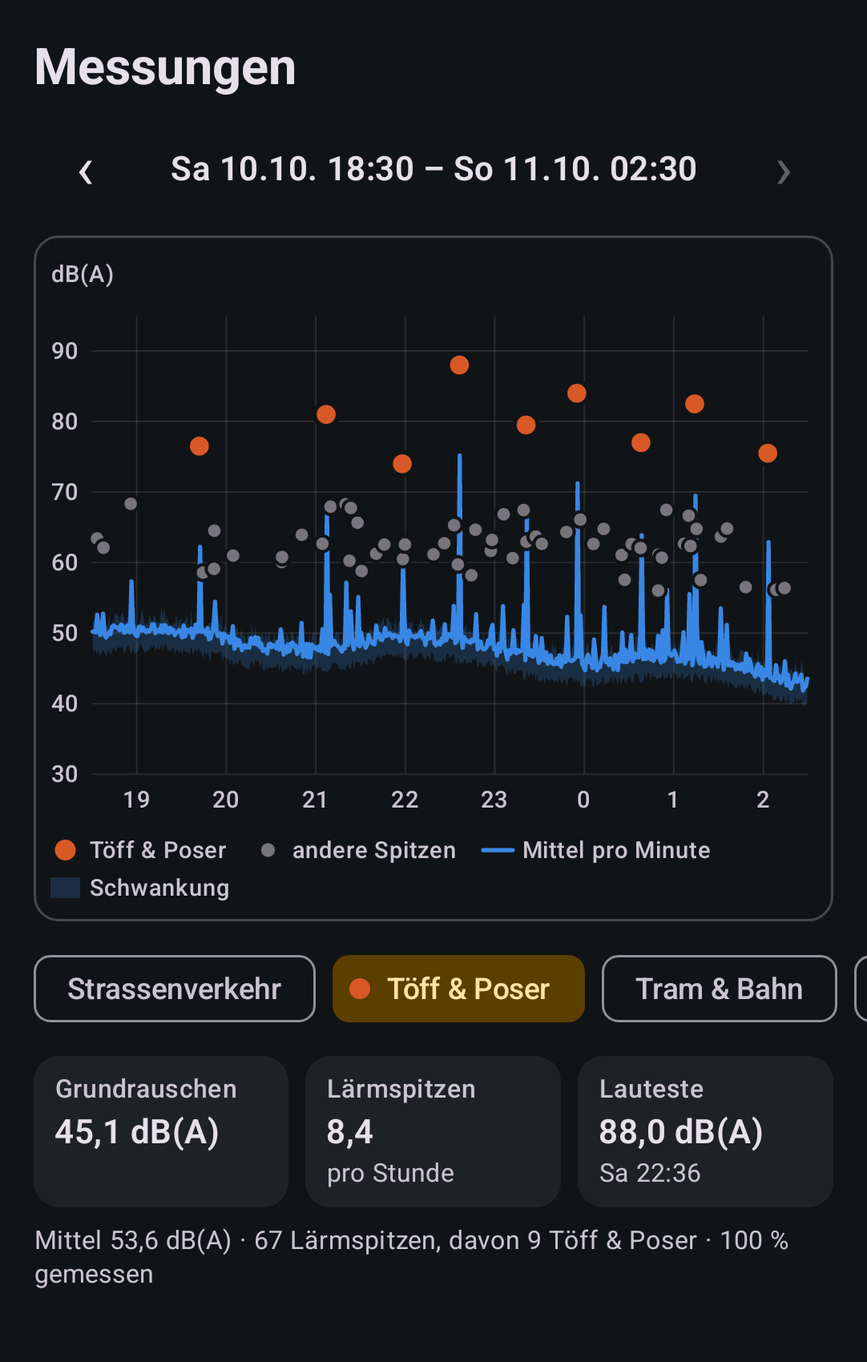
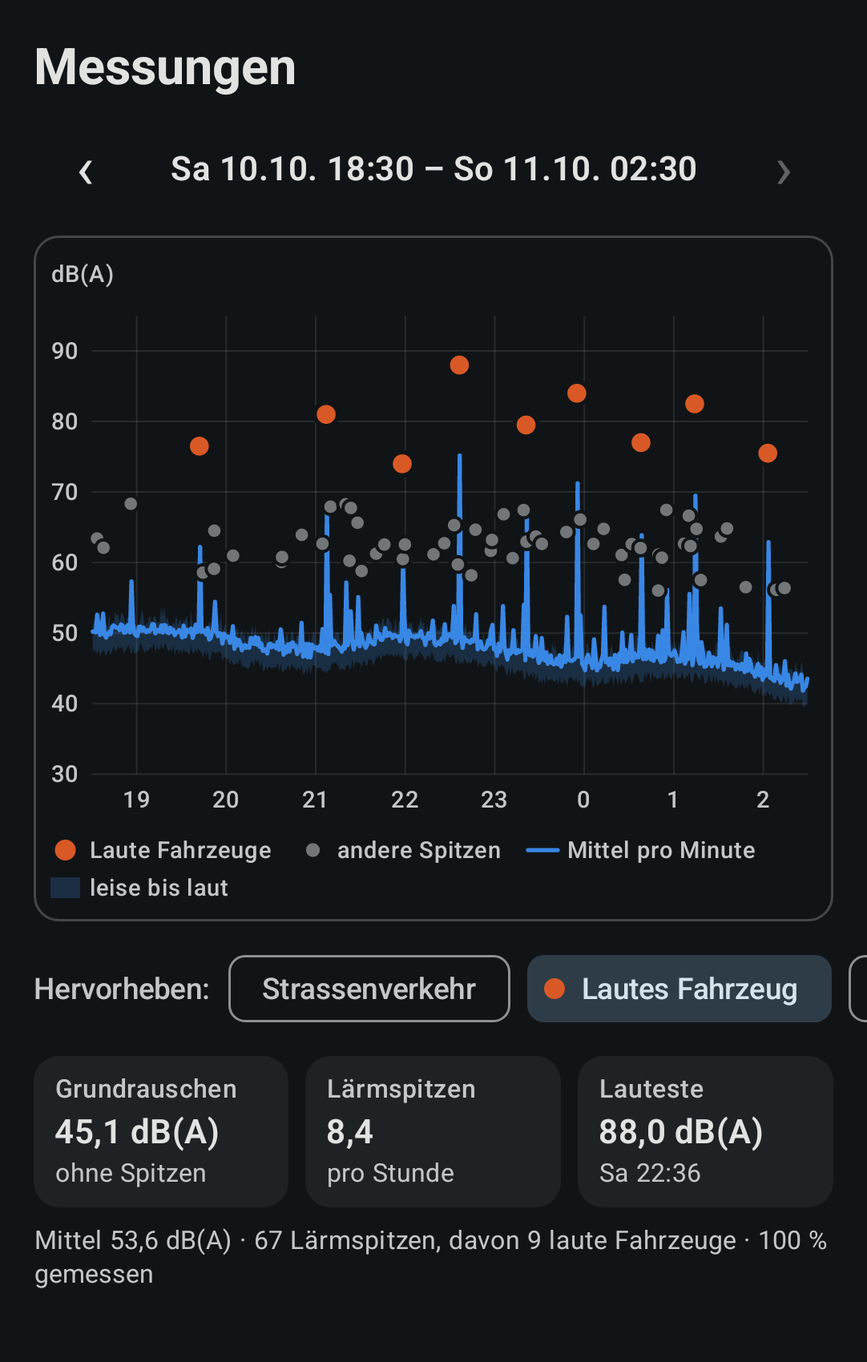
0.9.3/44: «Lautes Fahrzeug» instead of «Töff & Poser» for the detector class loud_vehicle (app, map, docs)
Claude-Session: https://claude.ai/code/session_01YHR9yrfAHvhA5Q9wZJdGEE

diff --git a/docs/datenschutz.html b/docs/datenschutz.html
@@ -59,7 +59,7 @@
       <br id="foto"><strong>Foto vom Fahrzeug (freiwillig, ab 0.9.0):</strong> Der Knopf öffnet die Kamera-App des Telefons; das Foto macht diese, die App selbst hat keine Kamera-Berechtigung. Die App verkleinert das Foto, lässt dabei alle Zusatzangaben wie Aufnahmeort und Gerät (EXIF) weg, löscht das Original und bewahrt das Foto <strong>nur in ihrem privaten Speicher auf dem Telefon</strong> auf, den keine andere App lesen kann (auch nicht in einer Sicherung in die Cloud). Es wird <strong>nie gesendet</strong>, auch nicht an den Server des Projekts, und nur Ihnen in der Liste «Meldungen» gezeigt. Gelöscht wird es mit seiner Meldung – mit «Abbrechen», wenn das Teilen ausgeschaltet oder «Vom Server löschen» getippt wird, bevor die Meldung gesendet ist, wenn der Server die Meldung nicht annimmt, oder wenn sie aus der Liste der letzten 500 gesendeten Meldungen fällt –, einzeln mit «Foto löschen» (bis 0.9.1 «Löschen») in der grossen Ansicht, oder wenn Sie die App deinstallieren oder ihre Daten löschen. Ob die Kamera-App zusätzlich selbst etwas speichert, bestimmt die Kamera-App; die App hat darauf keinen Einfluss. Bedenken Sie: Ein Foto, auf dem ein Kontrollschild zu lesen ist, enthält Personendaten der Person, die das Fahrzeug fährt oder der es gehört (und es kann weitere Personen zeigen); die App behält es deshalb nur für Sie auf dem Telefon und gibt es nicht weiter.
       <br>Sobald der Server eine Meldung erhalten hat, löscht das Telefon ihre Koordinaten; es behält nur Art, Zeit, den ungefähren Ort, die Lautstärke und gegebenenfalls das Foto. In 0.8.0 konnten Sie ein Kontrollschild in ein freiwilliges Feld tippen; ab 0.9.0 gibt es dieses Feld nicht mehr, und schon getippte Kontrollschilder bleiben, wie bisher, nur auf dem Telefon in der Liste «Meldungen» und werden nie gesendet.
       <br><strong>Unterwegs misst die Online-Version ab 0.9.0 nicht mehr:</strong> Es gibt keine Messung «Unterwegs» und keine Mitteilung «Sehr laut» mehr. Eine Messung ist immer die lange Messung am Fenster; unterwegs melden Sie nur, mit «Laut! Melden». (Bis 0.8.0 wurde eine mit «Unterwegs» gestartete Messung nie geteilt, und die Mitteilung bei sehr lautem Verkehr blieb auf dem Telefon.) Während einer Messung liest die App (ab 0.7.0) den Bewegungssensor, nur auf dem Telefon, um zu erkennen, dass das Telefon getragen wird; davon verlässt nichts das Telefon, und solange es getragen wird, wird von der Messung nichts geteilt.</li>
-    <li><strong>Gesendet werden</strong> nur die Pegel pro Minute und die lauten Ereignisse geteilter Messungen, jeweils mit dem verschobenen Punkt ihrer Messung und dem eingestellten Wert der Verschiebung, dazu Telefonmodell, Audioquelle (bei den Minutenwerten ab Version 0.7.2 mit der Art des Mikrofons – USB, Bluetooth, Kabel –, falls Sie nicht mit dem eingebauten messen; nie dessen Name oder Adresse), Kalibrierung und Ihre freiwilligen Angaben zur Aufstellung (Platzierung, Stockwerk, Strassenseite, Notiz) mit dem verschobenen Punkt der neuesten geteilten Messung, und Ihre Meldungen (wie oben beschrieben, ab 0.9.0 mit der Lautstärke, nie mit einem Foto). Ab Version 0.6.4 sendet die App nur laute Ereignisse von Maschinen- und Motorenlärm – Töff &amp; Poser, Strassenverkehr, Tram &amp; Bahn, Flugzeug, Baustelle – und nur solche, die auch die Prüfungen des Servers bestehen (mindestens 0,5&nbsp;Sekunden lang, mindestens 30&nbsp;dB(A) und die in der App eingestellte Mindestlautstärke, eingestellter Abstand zum Grundrauschen mindestens 6,5&nbsp;dB); Stimmen, Musik, Sonstiges und Wind verlassen das Telefon nie. Ältere Versionen senden laute Ereignisse jeder erkannten Art (ausser Wind); der Server behält aber nur Maschinen- und Motorenlärm und verwirft Ereignisse anderer Art schon beim Eintreffen, ohne sie zu speichern. Beim ersten Einschalten kommen die geteilten Messungen der letzten 7 Tage mit; schalten Sie das Teilen während einer Messung ein, wird diese ganze Messung geteilt; andere Messungen ohne Teilen werden nie gesendet.</li>
+    <li><strong>Gesendet werden</strong> nur die Pegel pro Minute und die lauten Ereignisse geteilter Messungen, jeweils mit dem verschobenen Punkt ihrer Messung und dem eingestellten Wert der Verschiebung, dazu Telefonmodell, Audioquelle (bei den Minutenwerten ab Version 0.7.2 mit der Art des Mikrofons – USB, Bluetooth, Kabel –, falls Sie nicht mit dem eingebauten messen; nie dessen Name oder Adresse), Kalibrierung und Ihre freiwilligen Angaben zur Aufstellung (Platzierung, Stockwerk, Strassenseite, Notiz) mit dem verschobenen Punkt der neuesten geteilten Messung, und Ihre Meldungen (wie oben beschrieben, ab 0.9.0 mit der Lautstärke, nie mit einem Foto). Ab Version 0.6.4 sendet die App nur laute Ereignisse von Maschinen- und Motorenlärm – laute Fahrzeuge, Strassenverkehr, Tram &amp; Bahn, Flugzeug, Baustelle – und nur solche, die auch die Prüfungen des Servers bestehen (mindestens 0,5&nbsp;Sekunden lang, mindestens 30&nbsp;dB(A) und die in der App eingestellte Mindestlautstärke, eingestellter Abstand zum Grundrauschen mindestens 6,5&nbsp;dB); Stimmen, Musik, Sonstiges und Wind verlassen das Telefon nie. Ältere Versionen senden laute Ereignisse jeder erkannten Art (ausser Wind); der Server behält aber nur Maschinen- und Motorenlärm und verwirft Ereignisse anderer Art schon beim Eintreffen, ohne sie zu speichern. Beim ersten Einschalten kommen die geteilten Messungen der letzten 7 Tage mit; schalten Sie das Teilen während einer Messung ein, wird diese ganze Messung geteilt; andere Messungen ohne Teilen werden nie gesendet.</li>
     <li><strong>Nie gesendet</strong> werden Audio, Fotos, Kontrollschilder, die Rohbezeichnungen des Klassifikators, der genaue Standort beim Start einer Messung, die Verschiebung selbst und der geheime Schlüssel, aus dem die App sie berechnet, Name, Konto, Telefonnummer oder Werbe-Kennung.</li>
     <li><strong>Wohin und wann:</strong> nur an den Server des Projekts in der Schweiz, api.lessnoise.ch (Stadtlärm bis 0.5.1: api.stadtlaerm.ch, derselbe Server), verschlüsselt (HTTPS); während einer geteilten Messung jede Lärmspitze etwa 30 Sekunden nach ihrem Ende und die Minutenwerte alle 2 Minuten, gleich nach dem Stopp einer Messung, nach einer Meldung und sonst nach jeder vollen Stunde; über WLAN oder mobile Daten (höchstens etwa 3&nbsp;MB pro Tag bei Messung rund um die Uhr, meist viel weniger), nur über WLAN, wenn Sie unter «Teilen» › «Messungen am Fenster» «Nur über WLAN» einschalten (bis 0.8.0 unter «Weitere Angaben») (bis Version 0.6.2 war das die Grundeinstellung).</li>
     <li><strong>Kennung:</strong> Das Gerät erhält eine zufällige Kennung ohne Bezug zu Ihrer Person; sie erscheint nie auf der Karte. «Neu starten» löscht die Daten auf dem Server und beginnt mit einer neuen Kennung.</li>
@@ -84,7 +84,7 @@
   <h2>Lärmkarte: was der Server speichert und zeigt</h2>
   <ul class="features">
     <li><strong>Messwerte</strong> speichert der Server mit dem verschobenen Punkt, den die App gesendet hat (von älteren Versionen – «Weniger Lärm» bis 0.6.1, «Stadtlärm» 0.5.x – mit der Hektare), nie mit dem genauen Standort. Die Karte fasst sie in Feldern von 100&nbsp;×&nbsp;100&nbsp;m zusammen, jeweils im Feld, in dem der verschobene Punkt liegt, pro Kalendertag (alle Stunden), gemittelt über 7 oder 30 Tage, mit einem Tagesverlauf pro Stunde über 30 Tage – ohne Gerätekennung; den Punkt selbst und den Wert der Verschiebung veröffentlicht sie nie. Die Verschiebung verbirgt die genaue Adresse, nicht die Gegend: Wer den eingestellten Wert kennt, weiss, dass der echte Ort meist (etwa 86 von 100 Mal) näher als das Doppelte davon beim verschobenen Punkt liegt, bei 50&nbsp;m also meist innerhalb von 100&nbsp;m. Ein Feld wird auch gezeigt, wenn nur ein Telefon dort misst; es liegt dann nahe bei Ihnen, und wer weiss, dass Sie in einer Gegend allein messen, kann Ihre Felder Tag für Tag verfolgen. Wer an mehreren Orten misst, erscheint in mehreren Feldern, ohne Verbindung zwischen ihnen. Telefonmodelle erscheinen nur als Anzahl über das ganze Netz.</li>
-    <li><strong>Nur Maschinen- und Motorenlärm:</strong> Die Karte zählt nur die lauten Ereignisse von Töff &amp; Poser, Strassenverkehr, Tram &amp; Bahn, Flugzeugen und Baustellen. Ereignisse anderer Art – Stimmen, Musik, Sonstiges – verwirft der Server beim Eintreffen und speichert sie nicht; solche, die er vorher gespeichert hatte, hat er am 16.&nbsp;Oktober 2026 gelöscht. Minuten, die mindestens zur Hälfte aus Stimmen oder Musik bestehen, zählen als Messzeit, aber nicht für die Pegel.</li>
+    <li><strong>Nur Maschinen- und Motorenlärm:</strong> Die Karte zählt nur die lauten Ereignisse dieser Quellen: laute Fahrzeuge, Strassenverkehr, Tram &amp; Bahn, Flugzeugen und Baustellen. Ereignisse anderer Art – Stimmen, Musik, Sonstiges – verwirft der Server beim Eintreffen und speichert sie nicht; solche, die er vorher gespeichert hatte, hat er am 16.&nbsp;Oktober 2026 gelöscht. Minuten, die mindestens zur Hälfte aus Stimmen oder Musik bestehen, zählen als Messzeit, aber nicht für die Pegel.</li>
     <li><strong>Meldungen</strong> speichert der Server mit dem genauen Ort (oder dem Ort, den Sie unter den Punkt geschoben haben), der Zeit, der Genauigkeit, der Art des Lärms (Fahrzeug oder Flugzeug), der Fahrtrichtung, falls angegeben, und ab 0.9.0 der Lautstärke (Spitze und Mittelwert, Anzahl Sekunden, kalibriert oder nicht). Die Karte zeigt jede Meldung der letzten 30 Tage als Punkt genau an der gemeldeten Stelle, weil Sie diese Stelle ausdrücklich gemeldet haben – mit der Art des Fahrzeugs, der Fahrtrichtung, falls angegeben, der Spitze in ganzen dB, falls gemessen, und der auf die volle Stunde abgerundeten Zeit, ohne Gerätekennung, genaue Uhrzeit, Genauigkeit, Mittelwert oder Kalibrierung. Fotos und Kontrollschilder erhält der Server nie. Wer oft vom selben Ort aus meldet, etwa vom eigenen Balkon, macht diesen Ort als Häufung von Punkten sichtbar.</li>
     <li><strong>Laufend aktualisiert:</strong> Die Zahlen des heutigen Tages und der Tagesverlauf auf der Karte werden etwa alle 30 Sekunden neu berechnet. Wer ein Feld beobachtet, in dem nur ein Telefon misst, kann deshalb auf etwa eine Minute genau erkennen, wann dort eine Lärmspitze gemessen wurde. Eine Liste der Lärmspitzen, eine Gerätekennung oder die genaue Uhrzeit veröffentlicht die Karte weiterhin nie.</li>
     <li><strong>Aufbewahrung:</strong> Gelöschte Daten verschwinden beim nächsten Neuaufbau auch von der Karte, in der Regel innert einer Minute. Minutenwerte und Ereignisse werden nach zwei Jahren zu Stundenwerten zusammengefasst, Meldungen spätestens nach zwei Jahren gelöscht.</li>

diff --git a/docs/karte.html b/docs/karte.html
@@ -14,15 +14,15 @@
 <link rel="stylesheet" href="map/karte.css?v=1d1a17d2">
 <script src="vendor/leaflet/leaflet.js?v=db49d009" defer></script>
 <script src="map/lv95.js?v=ca0eeb2b" defer></script>
-<script src="map/model.js?v=f87bfdf4" defer></script>
-<script src="map/karte.js?v=26fe8f1d" defer></script>
+<script src="map/model.js?v=55142286" defer></script>
+<script src="map/karte.js?v=23f769d7" defer></script>
 </head>
 <body class="karte-page">
 
 <header class="wrap wide page-head">
   <a class="home" href="./">Weniger Lärm</a>
   <h1>Lärmkarte</h1>
-  <p class="lead">Maschinen- und Motorenlärm in der Schweiz – Töff, Verkehr, Tram und Bahn, Flugzeuge, Baustellen –, gemessen von Anwohnerinnen und Anwohnern mit der App von Weniger Lärm – zu jeder Tageszeit, wann immer jemand misst. Die Karte fasst die Messungen in Feldern von 100&nbsp;×&nbsp;100&nbsp;m zusammen. Seit Version 0.6.2 verschiebt die App jeden Messort vorher zufällig, standardmässig um etwa 50&nbsp;m (in der App einstellbar); der genaue Messort verlässt das Telefon nie. (Ältere Versionen senden das Feld, in dem gemessen wurde.) Die Punkte sind Meldungen: Dort hat jemand eine laute Vorbeifahrt gemeldet.</p>
+  <p class="lead">Maschinen- und Motorenlärm in der Schweiz – laute Fahrzeuge, Verkehr, Tram und Bahn, Flugzeuge, Baustellen –, gemessen von Anwohnerinnen und Anwohnern mit der App von Weniger Lärm – zu jeder Tageszeit, wann immer jemand misst. Die Karte fasst die Messungen in Feldern von 100&nbsp;×&nbsp;100&nbsp;m zusammen. Seit Version 0.6.2 verschiebt die App jeden Messort vorher zufällig, standardmässig um etwa 50&nbsp;m (in der App einstellbar); der genaue Messort verlässt das Telefon nie. (Ältere Versionen senden das Feld, in dem gemessen wurde.) Die Punkte sind Meldungen: Dort hat jemand eine laute Vorbeifahrt gemeldet.</p>
   <p class="small" id="quellen">Diese Seite lädt die Kartenbilder von swisstopo und die Messwerte und Meldungen vom Server des Projekts (api.lessnoise.ch, übergangsweise api.stadtlaerm.ch), sonst nichts von anderen Servern.</p>
 </header>
 
@@ -42,7 +42,7 @@
     <legend>Quelle der Ereignisse</legend>
     <b class="chips-label" aria-hidden="true">Quelle:</b>
     <label><input type="radio" name="source" value="alle" checked><span>Alle</span></label>
-    <label data-cat="loud_vehicle"><input type="radio" name="source" value="loud_vehicle"><span>Töff &amp; Poser</span></label>
+    <label data-cat="loud_vehicle"><input type="radio" name="source" value="loud_vehicle"><span>Lautes Fahrzeug</span></label>
     <label data-cat="road_traffic"><input type="radio" name="source" value="road_traffic"><span>Strassenverkehr</span></label>
     <label data-cat="rail_tram"><input type="radio" name="source" value="rail_tram"><span>Tram &amp; Bahn</span></label>
     <label data-cat="aircraft"><input type="radio" name="source" value="aircraft"><span>Flugzeug</span></label>
@@ -110,11 +110,11 @@
     <dt>Dynamik</dt>
     <dd>Wie stark der Pegel innerhalb einer Minute schwankt: der Median über alle Minuten von L10&nbsp;−&nbsp;L90. Wenige dB bei gleichmässigem Verkehr, mehr bei einer ruhigen Strasse mit einzelnen lauten Fahrzeugen.</dd>
     <dt>Ereignisse/h</dt>
-    <dd>Laute Einzelereignisse pro Stunde Messzeit, nur Maschinen- und Motorenlärm: Töff &amp; Poser, Strassenverkehr, Tram &amp; Bahn, Flugzeug und Baustelle zusammen. Stimmen, Musik und andere Geräusche zählen nicht.</dd>
+    <dd>Laute Einzelereignisse pro Stunde Messzeit, nur Maschinen- und Motorenlärm: laute Fahrzeuge, Strassenverkehr, Tram &amp; Bahn, Flugzeug und Baustelle zusammen. Stimmen, Musik und andere Geräusche zählen nicht.</dd>
     <dt>Quelle</dt>
-    <dd>«Alle» zeigt die fünf Quellen zusammen. Wählen Sie eine Quelle, färbt die Karte die Felder nach deren Ereignissen pro Stunde, in der Farbe dieser Quelle: hell wenige, dunkel viele (im dunklen Modus umgekehrt). Töff &amp; Poser sind Motorräder und hochdrehende Motoren. Die Quelle erkennt die App auf dem Telefon, ohne Audio zu speichern.</dd>
+    <dd>«Alle» zeigt die fünf Quellen zusammen. Wählen Sie eine Quelle, färbt die Karte die Felder nach deren Ereignissen pro Stunde, in der Farbe dieser Quelle: hell wenige, dunkel viele (im dunklen Modus umgekehrt). «Lautes Fahrzeug» heisst: Motorräder und hochdrehende Motoren. Die Quelle erkennt die App auf dem Telefon, ohne Audio zu speichern.</dd>
     <dt>Sehr laut/h</dt>
-    <dd>Ereignisse mit einem Spitzenpegel ab <span class="loud-db">75</span>&nbsp;dB(A) pro Stunde Messzeit. Es zählen nur die fünf Quellen des Maschinen- und Motorenlärms: Töff &amp; Poser, Strassenverkehr, Tram &amp; Bahn, Flugzeug und Baustelle.</dd>
+    <dd>Ereignisse mit einem Spitzenpegel ab <span class="loud-db">75</span>&nbsp;dB(A) pro Stunde Messzeit. Es zählen nur die fünf Quellen des Maschinen- und Motorenlärms: laute Fahrzeuge, Strassenverkehr, Tram &amp; Bahn, Flugzeug und Baustelle.</dd>
     <dt>Meldungen</dt>
     <dd>Punkte, an denen jemand mit der App eine laute Vorbeifahrt gemeldet hat, mit der Art des Fahrzeugs; ein kleiner Pfeil am Punkt zeigt die Fahrtrichtung, falls sie gemeldet wurde, und ab App-Version 0.9.0 die Spitze der Lautstärke, die das Telefon beim Melden gemessen hat (in ganzen dB). Der Ort ist so genau, wie er gemeldet wurde; die Zeit ist auf die volle Stunde abgerundet. Wer gemeldet hat, steht nirgends.</dd>
     <dt>unkalibriert</dt>

diff --git a/tests/map.spec.js b/tests/map.spec.js
@@ -117,7 +117,7 @@ test("legend: neutral scale for the mean level, no LSV values in the legend", as
 test("metric selector recolours the cells and changes the legend", async ({ page }) => {
   const fill = () => page.locator(`#karte path.cell[data-cell="${CAL}"]`).first().getAttribute("fill");
   const before = await fill();
-  await expect(page.locator('#metric input[value="loud"]')).toHaveCount(0);   // now the source «Töff & Poser»
+  await expect(page.locator('#metric input[value="loud"]')).toHaveCount(0);   // now the source «Lautes Fahrzeug»
   await page.locator('#metric input[value="events"]').check({ force: true });
   await expect(page.locator("#legend-title")).toHaveText(
     "Laute Einzelereignisse pro Stunde Messzeit, Maschinen- und Motorenlärm (alle fünf Quellen) · Letzte 7 Tage");
@@ -126,7 +126,7 @@ test("metric selector recolours the cells and changes the legend", async ({ page
   await expect(page.locator("#legend-title")).toContainText("Ereignisse ab 75 dB(A) pro Stunde Messzeit, Maschinen- und Motorenlärm");
   // «Sehr laut/h» says which sources count
   await expect(page.locator("#legend-note")).toHaveText(
-    "Gezählt pro Stunde gültiger Messzeit: Ereignisse mit einem Spitzenpegel ab 75 dB(A), nur von Töff & Poser, Strassenverkehr, Tram & Bahn, Flugzeug und Baustelle.");
+    "Gezählt pro Stunde gültiger Messzeit: Ereignisse mit einem Spitzenpegel ab 75 dB(A), nur von lauten Fahrzeugen, Strassenverkehr, Tram & Bahn, Flugzeug und Baustelle.");
   // keyboard: arrow keys move between the radio buttons
   await page.locator('#metric input[value="peaks"]').focus();
   await page.keyboard.press("ArrowLeft");
@@ -135,7 +135,7 @@ test("metric selector recolours the cells and changes the legend", async ({ page
 
 // ---- one colour and one layer per source (the five map categories, server/DESIGN.md §6, §7) ----
 
-const SOURCE_NAMES = ["Alle", "Töff & Poser", "Strassenverkehr", "Tram & Bahn", "Flugzeug", "Baustelle"];
+const SOURCE_NAMES = ["Alle", "Lautes Fahrzeug", "Strassenverkehr", "Tram & Bahn", "Flugzeug", "Baustelle"];
 
 test("source chips: «Alle» and the five sources, «Alle» chosen, no hue on an unchosen chip", async ({ page }) => {
   await expect(page.locator("#source span")).toHaveText(SOURCE_NAMES);
@@ -151,7 +151,7 @@ test("source chips: «Alle» and the five sources, «Alle» chosen, no hue on an
   expect(text).not.toMatch(/alle Quellen|Strassenlärm|gleich welcher Quelle/);
   await expect(page.locator(".lead")).toContainText("Maschinen- und Motorenlärm");
   await expect(page.locator("#erklaerung")).toContainText(
-    "Es zählen nur die fünf Quellen des Maschinen- und Motorenlärms: Töff & Poser, Strassenverkehr, Tram & Bahn, Flugzeug und Baustelle.");
+    "Es zählen nur die fünf Quellen des Maschinen- und Motorenlärms: laute Fahrzeuge, Strassenverkehr, Tram & Bahn, Flugzeug und Baustelle.");
 });
 
 test("choosing a source recolours the cells in that source's ramp, legend and list follow, «Alle» goes back", async ({ page }) => {
@@ -235,7 +235,7 @@ test("the chosen source is kept in the fragment: written without a history entry
   // hashchange to another source recolours
   await page.evaluate(() => { location.hash = "quelle=loud_vehicle"; });
   await expect(page.locator('#source input[value="loud_vehicle"]')).toBeChecked();
-  await expect(page.locator("#legend-title")).toContainText("«Töff & Poser»");
+  await expect(page.locator("#legend-title")).toContainText("«Lautes Fahrzeug»");
   // the app replaces only the view: the source stays and is written back after the view
   await page.evaluate(() => { location.replace("#lat=46.94800&lon=7.44740&z=15"); });
   await expect.poll(async () => (await viewOf(page)).z).toBe(15);

diff --git a/android/chart/src/test/kotlin/ch/lessnoise/chart/ChartModelTest.kt b/android/chart/src/test/kotlin/ch/lessnoise/chart/ChartModelTest.kt
@@ -366,7 +366,7 @@ class ChartModelTest {
         val e = d.events.maxBy { it.lafMaxDb }
         val lines = tooltipLines(Selection.Event(e, true), m)
         // Over midnight: weekday and date first.
-        assertEquals("Fr 9.10. 23:40:30 · Töff & Poser", lines[0])
+        assertEquals("Fr 9.10. 23:40:30 · Lautes Fahrzeug", lines[0])
         // Two lines: time and source, then peak and duration (0.6.1).
         assertEquals(2, lines.size, lines.toString())
         assertTrue(lines[1].startsWith("85,0 dB(A) · "), lines.toString())
@@ -379,7 +379,7 @@ class ChartModelTest {
         assertEquals(listOf("Sa 10.10. 03:20", "keine Messung"), tooltipLines(Selection.NoData(SyntheticData.ms(LocalDateTime.of(2026, 10, 10, 3, 20))), m))
         // Within one date: the time is enough.
         val evening = ChartModel.build(d.copy(window = TimeWindow.span(SyntheticData.ms(LocalDateTime.of(2026, 10, 9, 22, 0)), SyntheticData.ms(LocalDateTime.of(2026, 10, 9, 23, 59)))), zone, "loud_vehicle", 45.0)
-        assertEquals("23:40:30 · Töff & Poser", tooltipLines(Selection.Event(e, true), evening)[0])
+        assertEquals("23:40:30 · Lautes Fahrzeug", tooltipLines(Selection.Event(e, true), evening)[0])
         val weekModel = ChartModel.build(SyntheticData.weekData(), zone, "loud_vehicle", 45.0)
         val p = weekModel.points.first { it.valid }
         assertEquals("Mo 5.10. 00:00–01:00", tooltipLines(Selection.Point(p), weekModel)[0])
@@ -398,7 +398,14 @@ class ChartModelTest {
         // Measurement 22–06 with data only 22–23: coverage 12.5 %. The gaps and the dynamics are no
         // longer in the line (0.6.1), but still computed.
         assertEquals("Mittel 40,0 dB(A) · 48 Lärmspitzen · 13 % gemessen", m.summary.line())
-        assertEquals("Mittel 40,0 dB(A) · 48 Lärmspitzen, davon 0 Töff & Poser · 13 % gemessen", m.summary.line(highlightName = "Töff & Poser"))
+        // 0.9.3: «Lautes Fahrzeug» (renamed; the id stays); after a count the plural / singular.
+        assertEquals("Mittel 40,0 dB(A) · 48 Lärmspitzen, davon 0 laute Fahrzeuge · 13 % gemessen", m.summary.line(highlightName = ChartCategories.countName("loud_vehicle", m.summary.highlightCount)))
+        assertEquals("laute Fahrzeuge", ChartCategories.countName("loud_vehicle", 5))
+        assertEquals("lautes Fahrzeug", ChartCategories.countName("loud_vehicle", 1))
+        assertEquals("Strassenverkehr", ChartCategories.countName("road_traffic", 5))
+        assertEquals("Lautes Fahrzeug", ChartCategories.name("loud_vehicle"))
+        assertEquals("Laute Fahrzeuge", ChartCategories.legendName("loud_vehicle"))
+        assertEquals("Tram & Bahn", ChartCategories.legendName("rail_tram"))
         assertEquals(listOf("Messung bis Fr 23:00"), m.summary.gapTexts)
         assertEquals("48", m.summary.eventsPerHourText)
         val few = build(ms, evs.take(5), floor = 30.0)
@@ -492,7 +499,7 @@ class ChartModelTest {
         assertTrue(prof.hourly)
         assertEquals(listOf("0", "3", "6", "9", "12", "15", "18", "21", "24"), prof.axisLabels.map { it.text })
         assertEquals((14 * 60 + 10) * 60_000L, prof.highlightedEvents.single().startEpochMs)
-        assertEquals("14:10:00 · Töff & Poser", tooltipLines(Selection.Event(prof.highlightedEvents.single(), true), prof)[0])
+        assertEquals("14:10:00 · Lautes Fahrzeug", tooltipLines(Selection.Event(prof.highlightedEvents.single(), true), prof)[0])
         assertEquals("14:00–15:00", tooltipLines(Selection.Point(prof.points[14]), prof)[0])
         assertEquals(span.summary, prof.summary)
     }

diff --git a/docs/map/model.js b/docs/map/model.js
@@ -169,8 +169,8 @@
       get: blockGet("events_per_h"),
     },
     loud: {
-      id: "loud", label: "Töff & Poser/h", unit: "pro Stunde",
-      title: "Ereignisse «Töff & Poser» (Motorräder, Hochdrehen) pro Stunde Messzeit",
+      id: "loud", label: "Laute Fahrzeuge/h", unit: "pro Stunde",
+      title: "Ereignisse «Lautes Fahrzeug» (Motorräder, Hochdrehen) pro Stunde Messzeit",
       breaks: [0.5, 1, 2, 3, 5, 8], colours: RATE_COLOURS,
       ticks: [0.5, 1, 2, 3, 5, 8],
       get: function (b) {
@@ -211,7 +211,8 @@
   // map, as LEVEL_COLOURS_DARK); every ramp passes the ordinal checks of the dataviz validator
   // (monotone lightness, steps ≥ 0.06 apart, end step ≥ 2:1 against the surface).
   var SOURCES = [
-    { id: "loud_vehicle", name: "Töff & Poser", colour: "#EB6834", colourDark: "#D95926",
+    // 0.9.3: «Lautes Fahrzeug» (the app's name of the detector class; plural where a count follows)
+    { id: "loud_vehicle", name: "Lautes Fahrzeug", plural: "Laute Fahrzeuge", colour: "#EB6834", colourDark: "#D95926",
       ramp: ["#f7936e", "#e46838", "#c24609", "#963300", "#6a2202"],
       rampDark: ["#ac4319", "#d55c2d", "#fc7848", "#fead91", "#fed8ca"] },
     { id: "road_traffic", name: "Strassenverkehr", colour: "#2A78D6", colourDark: "#3987E5",
@@ -241,7 +242,7 @@
     var s = source(id);
     if (!s) return null;
     return {
-      id: "source:" + s.id, source: s.id, label: s.name + "/h", unit: "pro Stunde",
+      id: "source:" + s.id, source: s.id, label: (s.plural || s.name) + "/h", unit: "pro Stunde",
       title: "Ereignisse «" + s.name + "» pro Stunde Messzeit",
       breaks: SOURCE_BREAKS, colours: s.ramp, coloursDark: s.rampDark, ticks: SOURCE_BREAKS,
       get: function (b) {
@@ -314,7 +315,7 @@
   /* ---------- sources and reports -------------------------------------------------------- */
 
   var CATEGORY_NAMES = {
-    loud_vehicle: "Töff & Poser", road_traffic: "Strassenverkehr", rail_tram: "Tram & Bahn",
+    loud_vehicle: "Lautes Fahrzeug", road_traffic: "Strassenverkehr", rail_tram: "Tram & Bahn",
     aircraft: "Flugzeug", construction: "Baustelle", voices: "Stimmen", music: "Musik",
     unclassified: "Sonstiges",
   };
@@ -427,7 +428,7 @@
    *  `runs` are maximal stretches of consecutive hours with levels: band and line are drawn per
    *  run, so nothing is drawn across an hour without enough data (a `gap`). The bars under the
    *  plot (`highlighted`) are the events per hour of `highlight`: a source id, "alle" for all five
-   *  together (`events_per_h`), or by default HIGHLIGHT (Töff & Poser). */
+   *  together (`events_per_h`), or by default HIGHLIGHT (Lautes Fahrzeug). */
   function chartModel(hours, highlight) {
     var hlKey = highlight === undefined || highlight === null ? HIGHLIGHT : highlight;
     if (!hours || !hours.length) return null;

diff --git a/android/chart/src/main/kotlin/ch/lessnoise/chart/ChartModel.kt b/android/chart/src/main/kotlin/ch/lessnoise/chart/ChartModel.kt
@@ -150,8 +150,9 @@ data class WindowSummary(
         get() = if (eventsPerHour.isNaN()) NONE_YET_TILE else ChartFmt.comma(eventsPerHour, if (eventsPerHour < 10) 1 else 0)
 
     /**
-     * «Mittel 45,2 dB(A) · 48 Lärmspitzen, davon 5 Töff & Poser · 76 % gemessen» ([highlightName]
-     * null: without the highlighted category). The gaps are drawn in the chart, not listed (0.6.1);
+     * «Mittel 45,2 dB(A) · 48 Lärmspitzen, davon 5 laute Fahrzeuge · 76 % gemessen» ([highlightName]
+     * null: without the highlighted category; the caller passes [ChartCategories.countName]). The
+     * gaps are drawn in the chart, not listed (0.6.1);
      * [gapTexts] and [dynamicsDb] stay for the tests and the CSV.
      */
     fun line(highlightName: String? = null): String {
@@ -590,7 +591,8 @@ object ChartCategories {
     const val DEFAULT_HIGHLIGHT = "loud_vehicle"
     val all: List<Pair<String, String>> = listOf(
         "road_traffic" to "Strassenverkehr",
-        "loud_vehicle" to "Töff & Poser",
+        // 0.9.3: renamed to «Lautes Fahrzeug» (a loud vehicle; the id stays).
+        "loud_vehicle" to "Lautes Fahrzeug",
         "rail_tram" to "Tram & Bahn",
         "aircraft" to "Flugzeug",
         "voices" to "Stimmen",
@@ -603,5 +605,20 @@ object ChartCategories {
         null -> "–"
         WindRule.CATEGORY -> WindRule.NAME_DE // the detector's wind flag, not a chip
         else -> all.firstOrNull { it.first == id }?.second ?: id
+    }
+
+    /**
+     * 0.9.3: the name after a count in the summary line, «davon 0 laute Fahrzeuge» / «davon 1 lautes
+     * Fahrzeug»; the other categories keep their chip name.
+     */
+    fun countName(id: String?, count: Int): String = when (id) {
+        "loud_vehicle" -> if (count == 1) "lautes Fahrzeug" else "laute Fahrzeuge"
+        else -> name(id)
+    }
+
+    /** 0.9.3: the legend entry of the highlighted dots, «Laute Fahrzeuge»; the others keep their chip name. */
+    fun legendName(id: String?): String = when (id) {
+        "loud_vehicle" -> "Laute Fahrzeuge"
+        else -> name(id)
     }
 }

diff --git a/android/chart/src/main/kotlin/ch/lessnoise/chart/HistorySection.kt b/android/chart/src/main/kotlin/ch/lessnoise/chart/HistorySection.kt
@@ -90,7 +90,7 @@ fun HistorySection(
     val loading = data == null || data.window != window
     val scheme = MaterialTheme.colorScheme
     val palette = ChartPalette.current()
-    val highlightName = ChartCategories.name(highlight)
+    val highlightLegend = ChartCategories.legendName(highlight)
 
     val margin = 16.dp
     Column(modifier.fillMaxWidth(), verticalArrangement = Arrangement.spacedBy(8.dp)) {
@@ -162,7 +162,7 @@ fun HistorySection(
                     horizontalArrangement = Arrangement.spacedBy(12.dp),
                     verticalArrangement = Arrangement.spacedBy(2.dp),
                 ) {
-                    LegendItem(Swatch.Dot(palette.series2), highlightName)
+                    LegendItem(Swatch.Dot(palette.series2), highlightLegend)
                     if (model?.hourly != true) {
                         LegendItem(Swatch.Dot(scheme.onSurfaceVariant.copy(alpha = 0.55f).compositeOver(cardColor), small = true), "andere Spitzen")
                     }
@@ -233,7 +233,7 @@ fun HistorySection(
         }
         if (s != null && model?.isEmpty == false) {
             Text(
-                s.line(highlightName = highlightName), style = MaterialTheme.typography.bodySmall, color = scheme.onSurfaceVariant,
+                s.line(highlightName = ChartCategories.countName(highlight, s.highlightCount)), style = MaterialTheme.typography.bodySmall, color = scheme.onSurfaceVariant,
                 modifier = Modifier.padding(horizontal = margin),
             )
         }

diff --git a/docs/map/karte.js b/docs/map/karte.js
@@ -393,10 +393,10 @@
         "Die Werte der Lärmschutz-Verordnung stehen im Tagesverlauf jedes Felds (antippen).",
       l90: "Der Hintergrund ist der Pegel ohne die einzelnen lauten Momente.",
       dynamics: "Wenige dB: gleichmässiger Verkehr. Viele dB: ruhige Strasse mit einzelnen lauten Fahrzeugen.",
-      events: "Nur Maschinen- und Motorenlärm: Töff & Poser, Strassenverkehr, Tram & Bahn, Flugzeug und Baustelle zusammen, " +
+      events: "Nur Maschinen- und Motorenlärm: laute Fahrzeuge, Strassenverkehr, Tram & Bahn, Flugzeug und Baustelle zusammen, " +
         "gezählt pro Stunde gültiger Messzeit; ein Ereignis ist ein kurzer Pegelanstieg deutlich über den Hintergrund.",
       peaks: "Gezählt pro Stunde gültiger Messzeit: Ereignisse mit einem Spitzenpegel ab " + dbText(state.loudDb) +
-        " dB(A), nur von Töff & Poser, Strassenverkehr, Tram & Bahn, Flugzeug und Baustelle.",
+        " dB(A), nur von lauten Fahrzeugen, Strassenverkehr, Tram & Bahn, Flugzeug und Baustelle.",
     }[state.metric];
     var s = m.source ? sourceOf() : null;
     if (s) {
@@ -491,7 +491,7 @@
   /** The bars under the chart: the chosen source's events per hour, or all five together. */
   function barLabel() {
     var s = sourceOf();
-    return s ? s.name : "Ereignisse";
+    return s ? (s.plural || s.name) : "Ereignisse";
   }
 
   /** The 24-hour profile of cells/{cell}.json: band L90–L10, LAeq line, the LSV reference

diff --git a/android/app/src/test/kotlin/ch/lessnoise/app/EditionTextTest.kt b/android/app/src/test/kotlin/ch/lessnoise/app/EditionTextTest.kt
@@ -66,7 +66,7 @@ class EditionTextTest {
                 assertEquals(EditionInfo.LABOR_KARTE, BuildConfig.EDITION)
                 assertTrue(BuildConfig.UPLOAD_AVAILABLE)
                 assertEquals("ch.lessnoise.labor", BuildConfig.APPLICATION_ID)
-                assertEquals("0.9.2-labor-karte", BuildConfig.VERSION_NAME)
+                assertEquals("0.9.3-labor-karte", BuildConfig.VERSION_NAME)
             }
             else -> error("unknown flavour ${BuildConfig.FLAVOR}")
         }
@@ -75,9 +75,9 @@ class EditionTextTest {
         if (BuildConfig.FLAVOR == "labor") assertTrue(BuildConfig.VERSION_NAME.endsWith("-labor"))
         else if (BuildConfig.FLAVOR == "laborKarte") assertTrue(BuildConfig.VERSION_NAME.endsWith("-labor-karte"))
         else assertFalse(BuildConfig.VERSION_NAME.contains('-'), BuildConfig.VERSION_NAME)
-        // 0.9.2 (versionCode 43; Labor·Karte first, branch labor-0.9.1): one version for all four flavours.
-        assertEquals(43, BuildConfig.VERSION_CODE)
-        assertTrue(BuildConfig.VERSION_NAME.startsWith("0.9.2"), BuildConfig.VERSION_NAME)
+        // 0.9.3 (versionCode 44; Labor·Karte first, branch labor-0.9.1): one version for all four flavours.
+        assertEquals(44, BuildConfig.VERSION_CODE)
+        assertTrue(BuildConfig.VERSION_NAME.startsWith("0.9.3"), BuildConfig.VERSION_NAME)
     }
 
     @Test

diff --git a/tests/unit/model.test.js b/tests/unit/model.test.js
@@ -84,6 +84,20 @@ test("LSV reference values: 6–22 Uhr and 22–6 Uhr, ES II", () => {
   assert.deepEqual(segs.map((s) => [s.x0 * 24, s.x1 * 24, s.pw]), [[0, 6, 45], [6, 22, 55], [22, 24, 45]]);
 });
 
+test("0.9.3: the detector class loud_vehicle is «Lautes Fahrzeug» (plural «Laute Fahrzeuge» per hour)", () => {
+  assert.equal(M.source("loud_vehicle").name, "Lautes Fahrzeug");
+  assert.equal(M.CATEGORY_NAMES.loud_vehicle, "Lautes Fahrzeug");
+  assert.equal(M.sourceMetric("loud_vehicle").label, "Laute Fahrzeuge/h");
+  assert.equal(M.sourceMetric("loud_vehicle").title, "Ereignisse «Lautes Fahrzeug» pro Stunde Messzeit");
+  assert.equal(M.sourceMetric("road_traffic").label, "Strassenverkehr/h");
+  assert.equal(M.METRICS.loud.label, "Laute Fahrzeuge/h");
+  // the old name is gone from the map's code and page; the report category «Poser» (old reports) stays
+  for (const f of ["docs/map/model.js", "docs/map/karte.js", "docs/karte.html"]) {
+    const text = fs.readFileSync(path.join(__dirname, "../..", f), "utf8");
+    assert.ok(!/Töff (&|&amp;) Poser/.test(text), f);
+  }
+});
+
 test("reports: categories, letters, filter by period", () => {
   assert.deepEqual(M.REPORT_CATEGORIES.map((c) => c.id).sort(), [...reports.categories].sort());
   const letters = M.REPORT_CATEGORIES.map((c) => c.letter);

diff --git a/android/app/src/laborKarte/kotlin/ch/lessnoise/app/alert/LoudAlertRule.kt b/android/app/src/laborKarte/kotlin/ch/lessnoise/app/alert/LoudAlertRule.kt
@@ -18,7 +18,7 @@ object LoudAlertRule {
      */
     const val THRESHOLD_DB = 75.0
 
-    /** «Töff & Poser» and «Strassenverkehr» (categories.json ids). */
+    /** «Lautes Fahrzeug» and «Strassenverkehr» (categories.json ids). */
     val CATEGORIES: Set<String> = setOf("loud_vehicle", "road_traffic")
 
     /** At most one notification per … */
@@ -47,15 +47,15 @@ object LoudAlertRule {
      */
     fun unterwegsNow(unterwegs: Boolean, moving: Boolean): Boolean = unterwegs || moving
 
-    /** «Töff & Poser» / «Strassenverkehr» (the names of categories.json). */
+    /** «Lautes Fahrzeug» / «Strassenverkehr» (the names of categories.json; renamed in 0.9.3). */
     fun categoryLabel(category: String?): String = when (category) {
-        "loud_vehicle" -> "Töff & Poser"
+        "loud_vehicle" -> "Lautes Fahrzeug"
         "road_traffic" -> "Strassenverkehr"
         "aircraft" -> "Flugzeug"
         else -> "Lärm"
     }
 
-    /** «Sehr laut: Töff & Poser, 84 dB». */
+    /** «Sehr laut: Lautes Fahrzeug, 84 dB». */
     fun title(e: LiveEvent): String = "Sehr laut: ${categoryLabel(e.category)}, ${e.lafMaxDb.roundToInt()} dB"
 
     /**

diff --git a/android/app/src/testLaborKarte/kotlin/ch/lessnoise/app/alert/LoudAlertTest.kt b/android/app/src/testLaborKarte/kotlin/ch/lessnoise/app/alert/LoudAlertTest.kt
@@ -74,13 +74,13 @@ class LoudAlertTest {
 
     @Test
     fun notificationContent() {
-        assertEquals("Sehr laut: Töff & Poser, 84 dB", LoudAlertRule.title(ev(84.4)))
+        assertEquals("Sehr laut: Lautes Fahrzeug, 84 dB", LoudAlertRule.title(ev(84.4)))
         assertEquals("Sehr laut: Strassenverkehr, 78 dB", LoudAlertRule.title(ev(77.6, "road_traffic")))
         assertEquals("Antippen zum Melden", LoudAlertRule.TEXT)
         assertEquals("Sehr laut", LoudAlertRule.CHANNEL_NAME)
         // The category names are the app's (categories.json name_de).
         val names = File(repo(), "android/app/src/main/assets/categories.json").readText()
-        assertTrue(names.contains("\"name_de\": \"Töff & Poser\"") && names.contains("\"name_de\": \"Strassenverkehr\""))
+        assertTrue(names.contains("\"name_de\": \"Lautes Fahrzeug\"") && names.contains("\"name_de\": \"Strassenverkehr\""))
         // 0.6.4: «Unterwegs» is a start mode; 0.8.3 a segment of the mode switch; since 0.8.4 the
         // Labor·Karte button «Unterwegs aufnehmen» with one Labor line (MeasureTextsTest).
         assertEquals("Unterwegs aufnehmen", UNTERWEGS_BUTTON)
